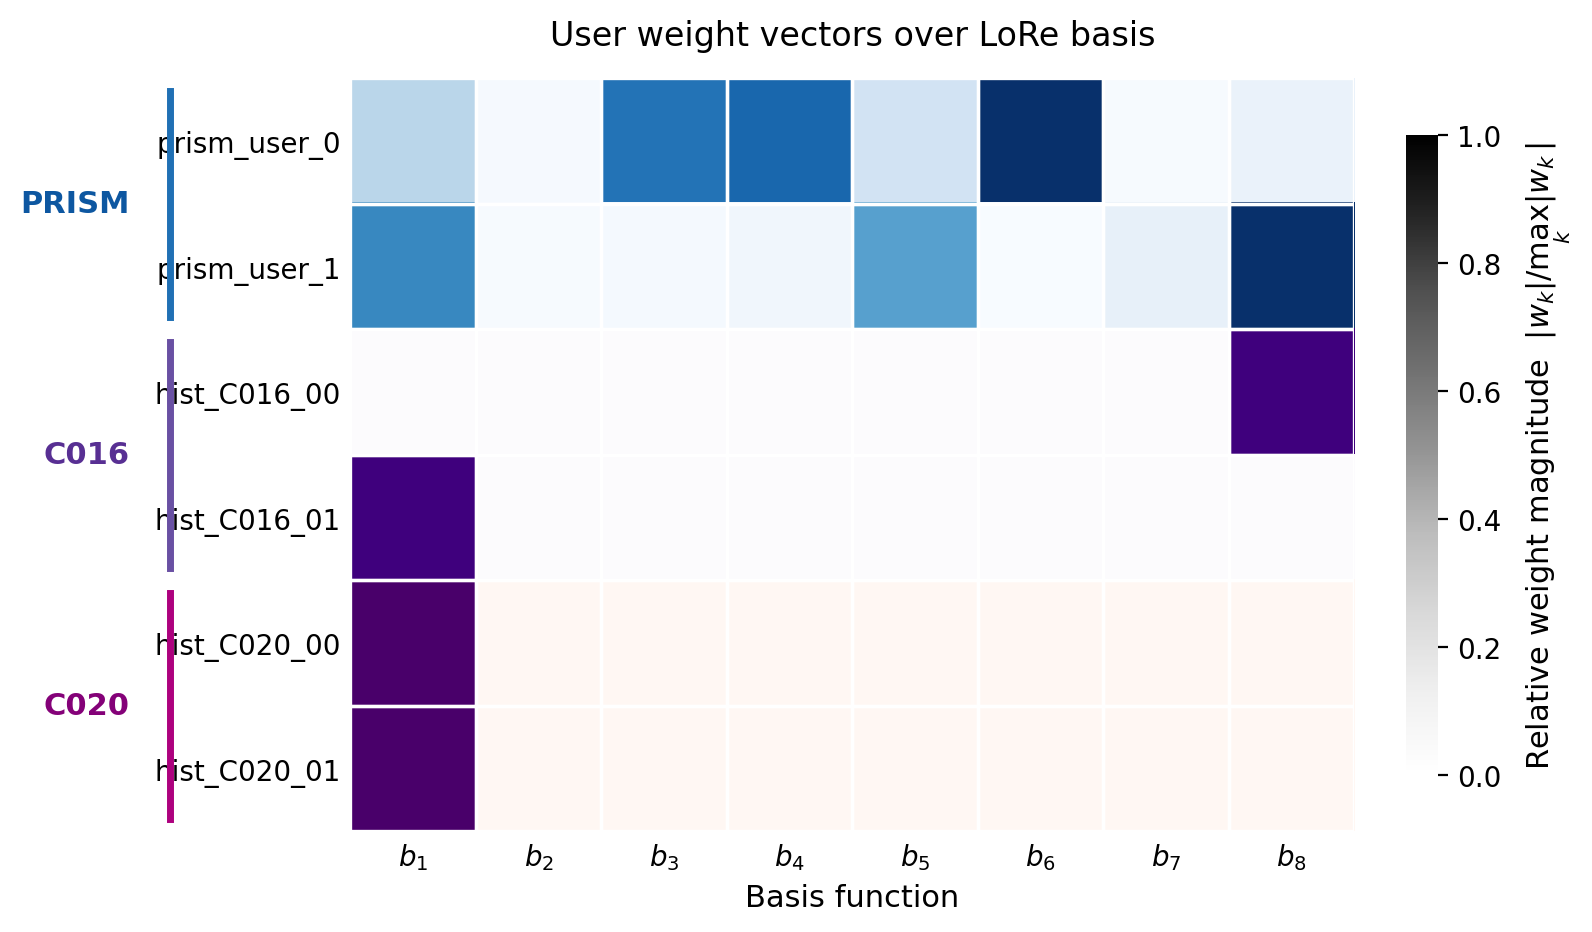
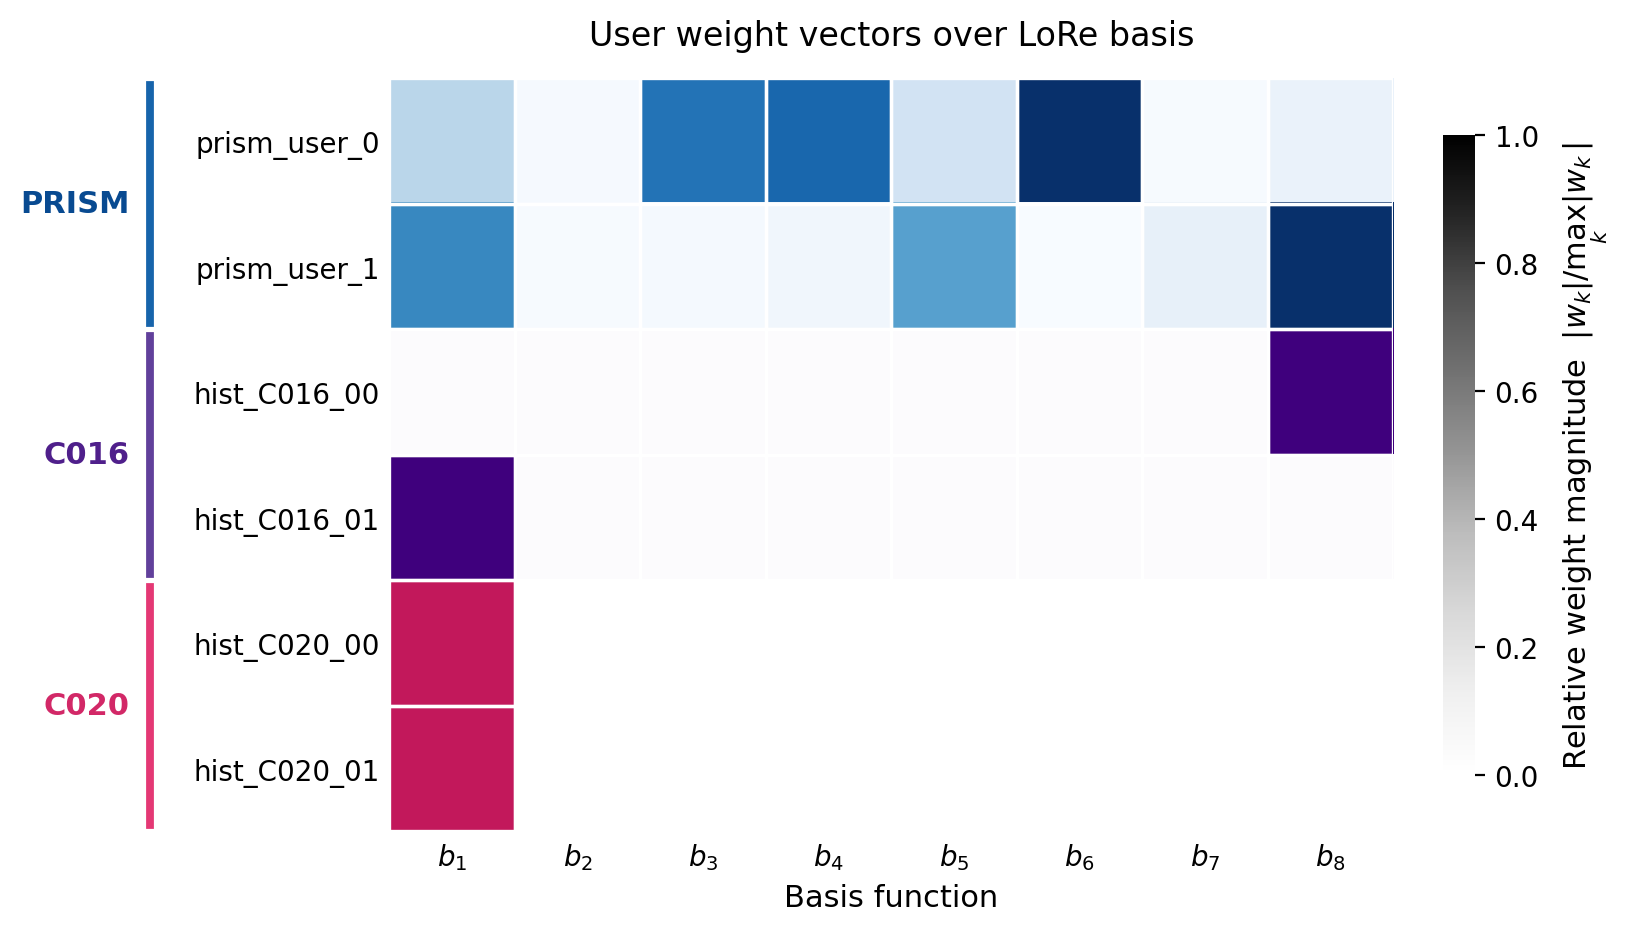
figs: fix bracket overlap and make C020 visibly pink
- Anchor group brackets to the left of the row labels using a
  rendered-extent lookup, so they no longer overlap the user IDs.
- Replace 'RdPu' with a custom white-to-pink colormap so C020 is
  clearly distinguishable from C016's purple.

diff --git a/experiments/figs.py b/experiments/figs.py
@@ -19,7 +19,16 @@ import numpy as np
 import torch
 import matplotlib as mpl
 from matplotlib.cm import ScalarMappable
-from matplotlib.colors import Normalize
+from matplotlib.colors import LinearSegmentedColormap, Normalize
+
+# Custom white→pink colormap, distinct from "Purples" used for C016
+_PINK_CMAP = LinearSegmentedColormap.from_list(
+    "apa_pink", ["#ffffff", "#fbd5e3", "#f48fb1", "#ec407a", "#c2185b"]
+)
+try:
+    mpl.colormaps.register(_PINK_CMAP)
+except ValueError:
+    pass
 
 from apa.config import MODELS_DIR
 
@@ -81,7 +90,7 @@ def fig_user_weights_grid(
     groups = [
         ("PRISM", prism_rows, "Blues"),
         ("C016",  c016_rows,  "Purples"),
-        ("C020",  c020_rows,  "RdPu"),
+        ("C020",  c020_rows,  "apa_pink"),
     ]
 
     # Per-row normalization on |w|: weight magnitudes vary by orders of
@@ -135,19 +144,29 @@ def fig_user_weights_grid(
     for spine in ax.spines.values():
         spine.set_visible(False)
 
-    # Group brackets on the left
+    # Group brackets on the far left of the figure (outside row labels)
+    fig.canvas.draw()
+    renderer = fig.canvas.get_renderer()
+    # Find left edge of the row labels in axis coordinates so the bracket
+    # sits to the left of them and doesn't overlay the text.
+    label_left_disp = min(
+        t.get_window_extent(renderer=renderer).x0
+        for t in ax.get_yticklabels()
+    )
+    inv = ax.transAxes.inverted()
+    label_left_ax = inv.transform((label_left_disp, 0))[0]
+    bracket_x = label_left_ax - 0.04
+    label_x = bracket_x - 0.02
     trans = ax.get_yaxis_transform()
-    bracket_x = -0.18
-    label_x = -0.22
     for label, start, end, cmap_name in group_spans:
-        y0, y1 = start - 0.4, end - 1 + 0.4
+        y0, y1 = start - 0.45, (end - 1) + 0.45
         ax.plot([bracket_x, bracket_x], [y0, y1],
                 transform=trans, clip_on=False,
-                color=mpl.colormaps[cmap_name](0.75), linewidth=2.5)
+                color=mpl.colormaps[cmap_name](0.8), linewidth=2.8)
         ax.text(label_x, (y0 + y1) / 2, label,
                 transform=trans, ha="right", va="center",
                 fontsize=11, fontweight="bold",
-                color=mpl.colormaps[cmap_name](0.85))
+                color=mpl.colormaps[cmap_name](0.9))
 
     # Shared colorbar (neutral grey) showing the per-row normalized scale
     sm = ScalarMappable(norm=norm, cmap="Greys")
